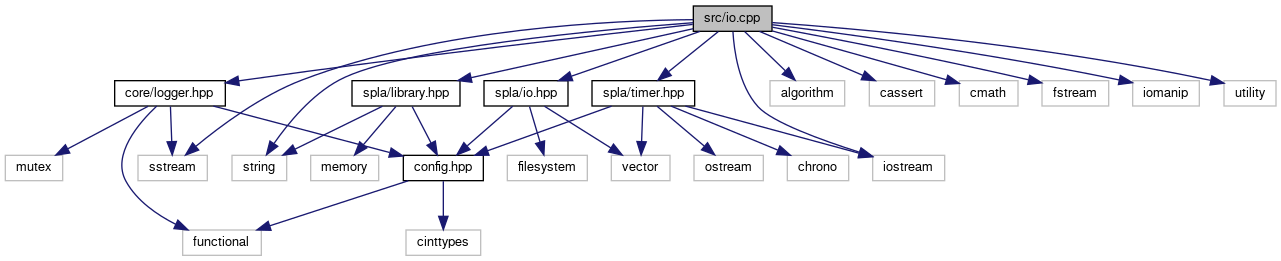
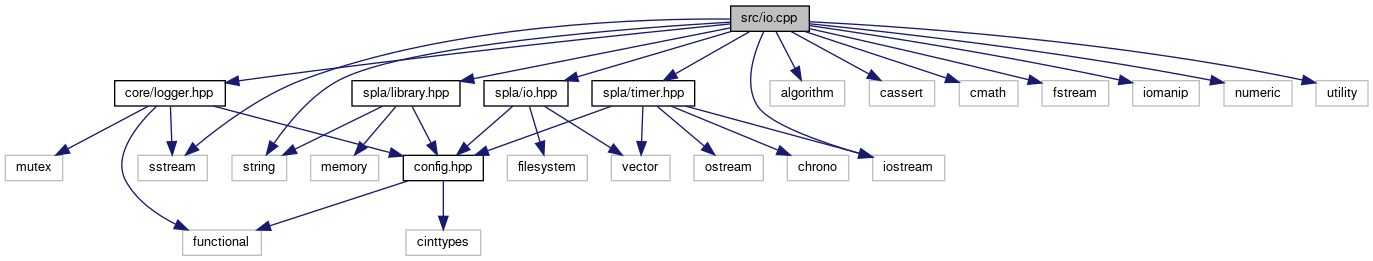
deploy: 6b85b35e43b0563c3a4d89ce7b333d815cc89a16

diff --git a/docs-cpp/io_8hpp_source.html b/docs-cpp/io_8hpp_source.html
@@ -139,22 +139,23 @@ $(function() {
 <div class="line"><a name="l00087"></a><span class="lineno">   87</span>&#160;        <span class="keywordtype">double</span>              m_deg_min = -1.0;</div>
 <div class="line"><a name="l00088"></a><span class="lineno">   88</span>&#160;        <span class="keywordtype">double</span>              m_deg_max = -1.0;</div>
 <div class="line"><a name="l00089"></a><span class="lineno">   89</span>&#160;        std::vector&lt;double&gt; m_deg_distribution;</div>
-<div class="line"><a name="l00090"></a><span class="lineno">   90</span>&#160;    };</div>
-<div class="line"><a name="l00091"></a><span class="lineno">   91</span>&#160; </div>
-<div class="line"><a name="l00096"></a><span class="lineno">   96</span>&#160;}<span class="comment">// namespace spla</span></div>
-<div class="line"><a name="l00097"></a><span class="lineno">   97</span>&#160; </div>
-<div class="line"><a name="l00098"></a><span class="lineno">   98</span>&#160;<span class="preprocessor">#endif</span><span class="comment">//SPLA_IO_HPP</span></div>
+<div class="line"><a name="l00090"></a><span class="lineno">   90</span>&#160;        std::vector&lt;uint&gt;   m_deg_ranges;</div>
+<div class="line"><a name="l00091"></a><span class="lineno">   91</span>&#160;    };</div>
+<div class="line"><a name="l00092"></a><span class="lineno">   92</span>&#160; </div>
+<div class="line"><a name="l00097"></a><span class="lineno">   97</span>&#160;}<span class="comment">// namespace spla</span></div>
+<div class="line"><a name="l00098"></a><span class="lineno">   98</span>&#160; </div>
+<div class="line"><a name="l00099"></a><span class="lineno">   99</span>&#160;<span class="preprocessor">#endif</span><span class="comment">//SPLA_IO_HPP</span></div>
 <div class="ttc" id="aclassspla_1_1MtxLoader_html"><div class="ttname"><a href="classspla_1_1MtxLoader.html">spla::MtxLoader</a></div><div class="ttdoc">Loader for matrix data stored in matrix-market (.mtx) format.</div><div class="ttdef"><b>Definition:</b> io.hpp:47</div></div>
-<div class="ttc" id="aclassspla_1_1MtxLoader_html_a1765e0d3cb9f8be35096978898eaac14"><div class="ttname"><a href="classspla_1_1MtxLoader.html#a1765e0d3cb9f8be35096978898eaac14">spla::MtxLoader::get_n_rows</a></div><div class="ttdeci">uint get_n_rows() const</div><div class="ttdef"><b>Definition:</b> io.cpp:216</div></div>
-<div class="ttc" id="aclassspla_1_1MtxLoader_html_a3ab8d0ff7a2c28664b7c09ff4a25652c"><div class="ttname"><a href="classspla_1_1MtxLoader.html#a3ab8d0ff7a2c28664b7c09ff4a25652c">spla::MtxLoader::calc_stats</a></div><div class="ttdeci">void calc_stats()</div><div class="ttdef"><b>Definition:</b> io.cpp:133</div></div>
+<div class="ttc" id="aclassspla_1_1MtxLoader_html_a1765e0d3cb9f8be35096978898eaac14"><div class="ttname"><a href="classspla_1_1MtxLoader.html#a1765e0d3cb9f8be35096978898eaac14">spla::MtxLoader::get_n_rows</a></div><div class="ttdeci">uint get_n_rows() const</div><div class="ttdef"><b>Definition:</b> io.cpp:229</div></div>
+<div class="ttc" id="aclassspla_1_1MtxLoader_html_a3ab8d0ff7a2c28664b7c09ff4a25652c"><div class="ttname"><a href="classspla_1_1MtxLoader.html#a3ab8d0ff7a2c28664b7c09ff4a25652c">spla::MtxLoader::calc_stats</a></div><div class="ttdeci">void calc_stats()</div><div class="ttdef"><b>Definition:</b> io.cpp:134</div></div>
 <div class="ttc" id="aclassspla_1_1MtxLoader_html_a5f8957f8d1f83b8277e6d5c89cb11b13"><div class="ttname"><a href="classspla_1_1MtxLoader.html#a5f8957f8d1f83b8277e6d5c89cb11b13">spla::MtxLoader::~MtxLoader</a></div><div class="ttdeci">~MtxLoader()=default</div></div>
-<div class="ttc" id="aclassspla_1_1MtxLoader_html_a691d5a8a8c1c5930e6fdda83e066586a"><div class="ttname"><a href="classspla_1_1MtxLoader.html#a691d5a8a8c1c5930e6fdda83e066586a">spla::MtxLoader::get_Aj</a></div><div class="ttdeci">const std::vector&lt; uint &gt; &amp; get_Aj() const</div><div class="ttdef"><b>Definition:</b> io.cpp:212</div></div>
-<div class="ttc" id="aclassspla_1_1MtxLoader_html_a723ca9dee2a6f7b8794447c4a33e8bb3"><div class="ttname"><a href="classspla_1_1MtxLoader.html#a723ca9dee2a6f7b8794447c4a33e8bb3">spla::MtxLoader::get_Ai</a></div><div class="ttdeci">const std::vector&lt; uint &gt; &amp; get_Ai() const</div><div class="ttdef"><b>Definition:</b> io.cpp:209</div></div>
-<div class="ttc" id="aclassspla_1_1MtxLoader_html_aab5e60461655bff46fd94dc7a11c9599"><div class="ttname"><a href="classspla_1_1MtxLoader.html#aab5e60461655bff46fd94dc7a11c9599">spla::MtxLoader::output_stats</a></div><div class="ttdeci">void output_stats()</div><div class="ttdef"><b>Definition:</b> io.cpp:177</div></div>
-<div class="ttc" id="aclassspla_1_1MtxLoader_html_ac80ed8bd3ba912e89fd8ace740e1d36b"><div class="ttname"><a href="classspla_1_1MtxLoader.html#ac80ed8bd3ba912e89fd8ace740e1d36b">spla::MtxLoader::load</a></div><div class="ttdeci">bool load(std::filesystem::path file_path, bool offset_indices=true, bool make_undirected=true, bool remove_loops=true)</div><div class="ttdoc">Load .mtx data from given file path.</div><div class="ttdef"><b>Definition:</b> io.cpp:49</div></div>
-<div class="ttc" id="aclassspla_1_1MtxLoader_html_adf93d74f18c2e08cc097affccf680519"><div class="ttname"><a href="classspla_1_1MtxLoader.html#adf93d74f18c2e08cc097affccf680519">spla::MtxLoader::get_n_values</a></div><div class="ttdeci">std::size_t get_n_values() const</div><div class="ttdef"><b>Definition:</b> io.cpp:222</div></div>
-<div class="ttc" id="aclassspla_1_1MtxLoader_html_afb957a5108eff829b32441b93ea7f691"><div class="ttname"><a href="classspla_1_1MtxLoader.html#afb957a5108eff829b32441b93ea7f691">spla::MtxLoader::MtxLoader</a></div><div class="ttdeci">MtxLoader(std::string name=&quot;&quot;)</div><div class="ttdef"><b>Definition:</b> io.cpp:46</div></div>
-<div class="ttc" id="aclassspla_1_1MtxLoader_html_afbccfa3ae45f663a2c3940530e4bbf66"><div class="ttname"><a href="classspla_1_1MtxLoader.html#afbccfa3ae45f663a2c3940530e4bbf66">spla::MtxLoader::get_n_cols</a></div><div class="ttdeci">uint get_n_cols() const</div><div class="ttdef"><b>Definition:</b> io.cpp:219</div></div>
+<div class="ttc" id="aclassspla_1_1MtxLoader_html_a691d5a8a8c1c5930e6fdda83e066586a"><div class="ttname"><a href="classspla_1_1MtxLoader.html#a691d5a8a8c1c5930e6fdda83e066586a">spla::MtxLoader::get_Aj</a></div><div class="ttdeci">const std::vector&lt; uint &gt; &amp; get_Aj() const</div><div class="ttdef"><b>Definition:</b> io.cpp:225</div></div>
+<div class="ttc" id="aclassspla_1_1MtxLoader_html_a723ca9dee2a6f7b8794447c4a33e8bb3"><div class="ttname"><a href="classspla_1_1MtxLoader.html#a723ca9dee2a6f7b8794447c4a33e8bb3">spla::MtxLoader::get_Ai</a></div><div class="ttdeci">const std::vector&lt; uint &gt; &amp; get_Ai() const</div><div class="ttdef"><b>Definition:</b> io.cpp:222</div></div>
+<div class="ttc" id="aclassspla_1_1MtxLoader_html_aab5e60461655bff46fd94dc7a11c9599"><div class="ttname"><a href="classspla_1_1MtxLoader.html#aab5e60461655bff46fd94dc7a11c9599">spla::MtxLoader::output_stats</a></div><div class="ttdeci">void output_stats()</div><div class="ttdef"><b>Definition:</b> io.cpp:193</div></div>
+<div class="ttc" id="aclassspla_1_1MtxLoader_html_ac80ed8bd3ba912e89fd8ace740e1d36b"><div class="ttname"><a href="classspla_1_1MtxLoader.html#ac80ed8bd3ba912e89fd8ace740e1d36b">spla::MtxLoader::load</a></div><div class="ttdeci">bool load(std::filesystem::path file_path, bool offset_indices=true, bool make_undirected=true, bool remove_loops=true)</div><div class="ttdoc">Load .mtx data from given file path.</div><div class="ttdef"><b>Definition:</b> io.cpp:50</div></div>
+<div class="ttc" id="aclassspla_1_1MtxLoader_html_adf93d74f18c2e08cc097affccf680519"><div class="ttname"><a href="classspla_1_1MtxLoader.html#adf93d74f18c2e08cc097affccf680519">spla::MtxLoader::get_n_values</a></div><div class="ttdeci">std::size_t get_n_values() const</div><div class="ttdef"><b>Definition:</b> io.cpp:235</div></div>
+<div class="ttc" id="aclassspla_1_1MtxLoader_html_afb957a5108eff829b32441b93ea7f691"><div class="ttname"><a href="classspla_1_1MtxLoader.html#afb957a5108eff829b32441b93ea7f691">spla::MtxLoader::MtxLoader</a></div><div class="ttdeci">MtxLoader(std::string name=&quot;&quot;)</div><div class="ttdef"><b>Definition:</b> io.cpp:47</div></div>
+<div class="ttc" id="aclassspla_1_1MtxLoader_html_afbccfa3ae45f663a2c3940530e4bbf66"><div class="ttname"><a href="classspla_1_1MtxLoader.html#afbccfa3ae45f663a2c3940530e4bbf66">spla::MtxLoader::get_n_cols</a></div><div class="ttdeci">uint get_n_cols() const</div><div class="ttdef"><b>Definition:</b> io.cpp:232</div></div>
 <div class="ttc" id="aconfig_8hpp_html"><div class="ttname"><a href="config_8hpp.html">config.hpp</a></div></div>
 <div class="ttc" id="aconfig_8hpp_html_ae3bb5ff276a0f55f0b3606a36b4e94fc"><div class="ttname"><a href="config_8hpp.html#ae3bb5ff276a0f55f0b3606a36b4e94fc">SPLA_API</a></div><div class="ttdeci">#define SPLA_API</div><div class="ttdef"><b>Definition:</b> config.hpp:41</div></div>
 <div class="ttc" id="agroup__spla_html_ga669156f74132dd261f21223177f0b458"><div class="ttname"><a href="group__spla.html#ga669156f74132dd261f21223177f0b458">spla::uint</a></div><div class="ttdeci">std::uint32_t uint</div><div class="ttdoc">Library index and size type.</div><div class="ttdef"><b>Definition:</b> config.hpp:54</div></div>

diff --git a/docs-cpp/io_8cpp.html b/docs-cpp/io_8cpp.html
@@ -81,6 +81,7 @@ $(function() {
 <code>#include &lt;fstream&gt;</code><br />
 <code>#include &lt;iomanip&gt;</code><br />
 <code>#include &lt;iostream&gt;</code><br />
+<code>#include &lt;numeric&gt;</code><br />
 <code>#include &lt;sstream&gt;</code><br />
 <code>#include &lt;string&gt;</code><br />
 <code>#include &lt;utility&gt;</code><br />
@@ -89,7 +90,7 @@ Include dependency graph for io.cpp:</div>
 <div class="dyncontent">
 <div class="center"><img src="io_8cpp__incl.png" border="0" usemap="#asrc_2io_8cpp" alt=""/></div>
 <map name="asrc_2io_8cpp" id="asrc_2io_8cpp">
-<area shape="rect" title=" " alt="" coords="693,5,772,32"/>
+<area shape="rect" title=" " alt="" coords="731,5,809,32"/>
 <area shape="rect" href="io_8hpp.html" title=" " alt="" coords="484,80,568,107"/>
 <area shape="rect" href="library_8hpp.html" title=" " alt="" coords="352,80,460,107"/>
 <area shape="rect" title=" " alt="" coords="232,155,287,181"/>
@@ -102,7 +103,8 @@ Include dependency graph for io.cpp:</div>
 <area shape="rect" title=" " alt="" coords="959,80,1018,107"/>
 <area shape="rect" title=" " alt="" coords="1042,80,1109,107"/>
 <area shape="rect" title=" " alt="" coords="1133,80,1199,107"/>
-<area shape="rect" title=" " alt="" coords="1224,80,1276,107"/>
+<area shape="rect" title=" " alt="" coords="1224,80,1292,107"/>
+<area shape="rect" title=" " alt="" coords="1316,80,1368,107"/>
 <area shape="rect" href="config_8hpp.html" title=" " alt="" coords="403,155,483,181"/>
 <area shape="rect" title=" " alt="" coords="507,155,587,181"/>
 <area shape="rect" title=" " alt="" coords="611,155,670,181"/>
